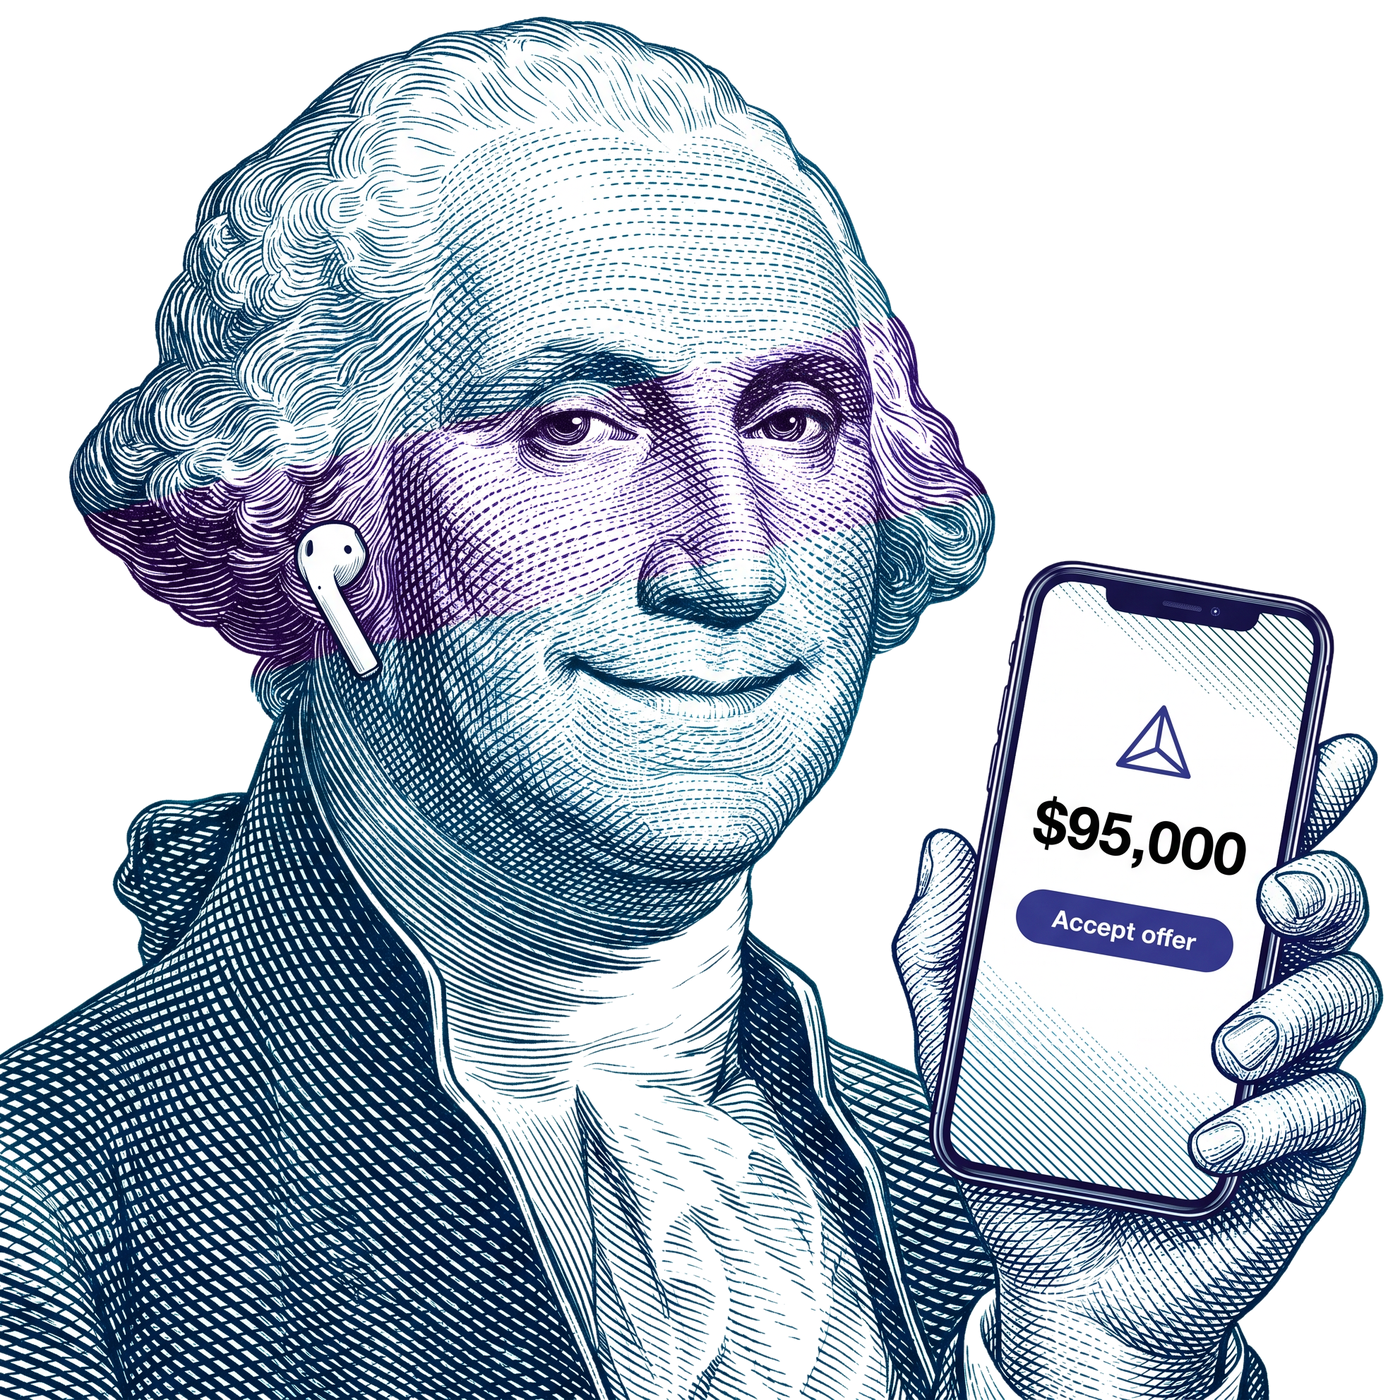
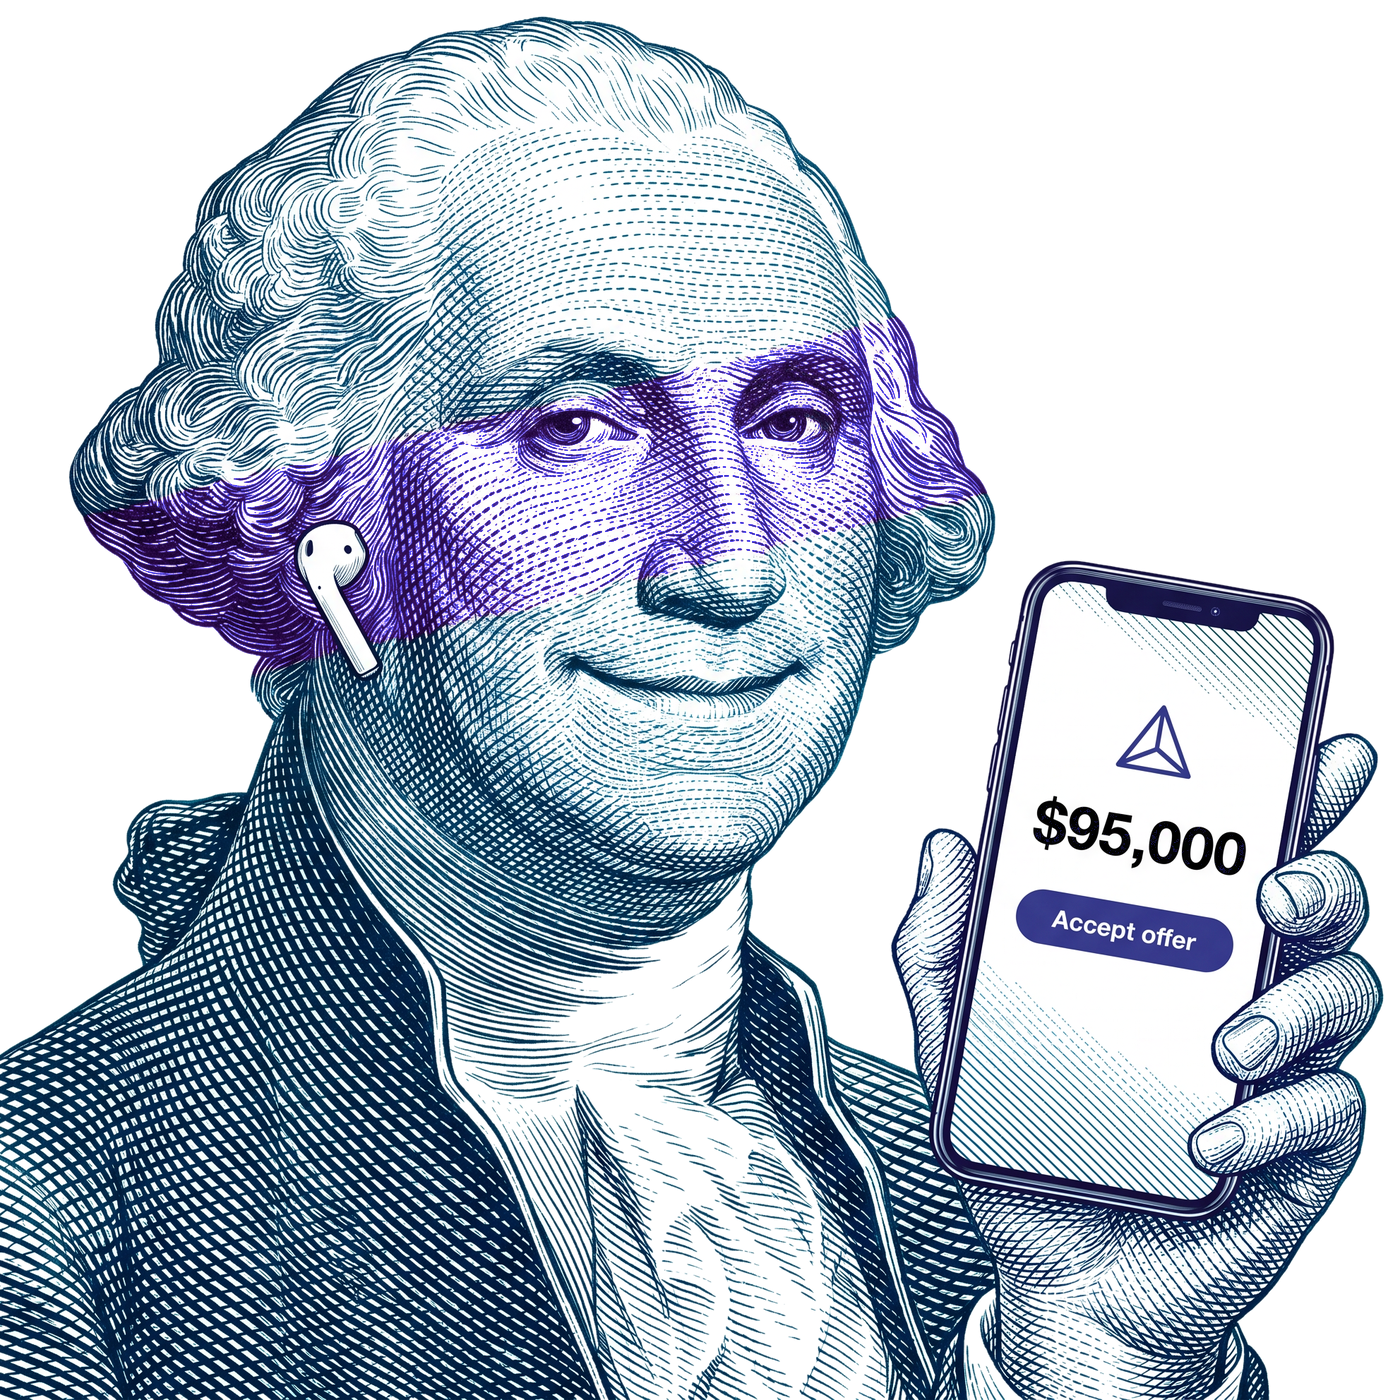
hero: electric-indigo stripe, uncrop shoulder, denser lines w/ cursor spotlight
Requested by David:

1. Recolor the stripe to true #4945FF electric indigo. First pass hue-shifted
   pixels in HSV but preserved value/saturation, so the stripe came out as
   dark purple. New pass replaces stripe RGB with #4945FF scaled by original
   luminance \u2014 dark ink stays dark, mid-tones land right at #4945FF, and
   engraving cross-hatch texture is preserved. Reads vibrant, matches the
   phone's Accept-offer button.

2. Uncrop the left shoulder: portrait now sits with bottom:120px and
   height:calc(100% - 140px), max-height 720px, so the sub-stats strip no
   longer clips the coat/shoulder. Mobile bottom offsets adjusted to match.

3. Denser background lines: 42 \u2192 96 parallel arcs, thinner stroke, softer
   base opacity so the pattern reads as topography instead of a few sweeps.

4. Plaid-style cursor spotlight on the lines: two layered SVGs \u2014 a dim base
   always visible, and a bright overlay revealed only by a radial-gradient
   mask (circle 320px) centered on the cursor. Mask center is driven by
   CSS --mx/--my custom properties on the <section>, updated via a
   mousemove handler with 15% lerp inside requestAnimationFrame so the
   light glides smoothly to the cursor (idle at 50%/40%).

Changed region(s): [[0.0614, 0.215, 0.7064, 0.4914]]

diff --git a/app/variation-1.jsx b/app/variation-1.jsx
@@ -187,6 +187,41 @@ function V1Hero({ accent, onApply }) {
   const mounted = useV1Mounted(80);
   // Subscribe to language changes so the hero copy swaps on toggle.
   useLang();
+
+  // Cursor-tracked spotlight on the background lines (Plaid-style).
+  // The section receives CSS custom properties --mx / --my in percent, and
+  // the overlay <svg> uses them to position a radial-gradient mask. Update
+  // via requestAnimationFrame + a 15% lerp so the light glides smoothly.
+  const heroRef = React.useRef(null);
+  React.useEffect(() => {
+    const el = heroRef.current;
+    if (!el) return undefined;
+    const target = { x: 50, y: 40 };   // % — idle position (soft glow left-center)
+    const cur    = { x: 50, y: 40 };
+    let raf = 0;
+    const onMove = (e) => {
+      const r = el.getBoundingClientRect();
+      target.x = ((e.clientX - r.left) / r.width) * 100;
+      target.y = ((e.clientY - r.top) / r.height) * 100;
+    };
+    const onLeave = () => { target.x = 50; target.y = 40; };
+    const tick = () => {
+      cur.x += (target.x - cur.x) * 0.15;
+      cur.y += (target.y - cur.y) * 0.15;
+      el.style.setProperty('--mx', cur.x.toFixed(2) + '%');
+      el.style.setProperty('--my', cur.y.toFixed(2) + '%');
+      raf = requestAnimationFrame(tick);
+    };
+    el.addEventListener('mousemove', onMove);
+    el.addEventListener('mouseleave', onLeave);
+    raf = requestAnimationFrame(tick);
+    return () => {
+      cancelAnimationFrame(raf);
+      el.removeEventListener('mousemove', onMove);
+      el.removeEventListener('mouseleave', onLeave);
+    };
+  }, []);
+
   // Hero portrait is static — no parallax / scroll animation, per stakeholder.
   const enter = (base) => ({
     opacity: mounted ? 1 : 0,
@@ -205,7 +240,7 @@ function V1Hero({ accent, onApply }) {
   // as the page scrolls.
 
   return (
-    <section style={{
+    <section ref={heroRef} style={{
       // Delt indigo gradient: violet/cyan glows over a deep navy → indigo
       // base. Washington cutout floats on the right; elegant swept curves
       // fill the left half. No more baked-in ripple pattern.
@@ -231,21 +266,47 @@ function V1Hero({ accent, onApply }) {
       `}</style>
 
       {/* Elegant sweeping curves — same family as the footer's topography lines.
-          Delicate cyan Bezier arcs fanning from the upper-left corner across
-          the copy area. Sits behind everything (zIndex 1); Washington cutout
-          is above at zIndex 2. */}
-      <svg aria-hidden viewBox="0 0 1200 1000" preserveAspectRatio="none"
-        style={{
-          position: 'absolute', left: -80, top: -80, width: 1300, height: 1080,
-          opacity: 0.85, pointerEvents: 'none', zIndex: 1,
-          mixBlendMode: 'screen',
-        }}>
-        {Array.from({ length: 42 }, (_, i) => (
-          <path key={i}
-            d={`M ${-40 + i * 6} 0 Q ${260 + i * 12} ${180 + i * 8}, ${180 + i * 10} ${520 - i * 4} T ${-20 + i * 4} 1000`}
-            fill="none" stroke="rgba(125,211,252,0.55)" strokeWidth="0.55" />
-        ))}
-      </svg>
+          Two layered SVGs so the pattern can "light up" under the cursor,
+          Plaid-style: a dim base drawn at full coverage, then a bright copy
+          on top revealed only by a radial mask that follows the mouse.
+          The mask center is driven by --mx / --my custom properties set
+          on the enclosing <section> (updated on mousemove, see effect above).
+          Line count bumped 42 → 96 for a denser topography. */}
+      {(() => {
+        const LINE_COUNT = 96;
+        const buildPath = (i) => `M ${-40 + i * 3} 0 Q ${260 + i * 6} ${180 + i * 4}, ${180 + i * 5} ${520 - i * 2} T ${-20 + i * 2} 1000`;
+        const lines = Array.from({ length: LINE_COUNT }, (_, i) => buildPath(i));
+        return (
+          <React.Fragment>
+            {/* Dim base — always visible, sets the ambient topography. */}
+            <svg aria-hidden viewBox="0 0 1200 1000" preserveAspectRatio="none"
+              style={{
+                position: 'absolute', left: -80, top: -80, width: 1300, height: 1080,
+                opacity: 0.5, pointerEvents: 'none', zIndex: 1,
+                mixBlendMode: 'screen',
+              }}>
+              {lines.map((d, i) => (
+                <path key={i} d={d} fill="none" stroke="rgba(125,211,252,0.35)" strokeWidth="0.5" />
+              ))}
+            </svg>
+            {/* Bright overlay — same paths, higher contrast, revealed only
+                inside the radial-gradient mask centered on the cursor.
+                --mx / --my come from the <section>'s style properties. */}
+            <svg aria-hidden viewBox="0 0 1200 1000" preserveAspectRatio="none"
+              style={{
+                position: 'absolute', left: -80, top: -80, width: 1300, height: 1080,
+                opacity: 1, pointerEvents: 'none', zIndex: 1,
+                mixBlendMode: 'screen',
+                WebkitMaskImage: 'radial-gradient(circle 320px at var(--mx, 50%) var(--my, 40%), rgba(0,0,0,0.95) 0%, rgba(0,0,0,0.55) 45%, rgba(0,0,0,0) 100%)',
+                maskImage: 'radial-gradient(circle 320px at var(--mx, 50%) var(--my, 40%), rgba(0,0,0,0.95) 0%, rgba(0,0,0,0.55) 45%, rgba(0,0,0,0) 100%)',
+              }}>
+              {lines.map((d, i) => (
+                <path key={i} d={d} fill="none" stroke="rgba(180,220,255,0.95)" strokeWidth="0.8" />
+              ))}
+            </svg>
+          </React.Fragment>
+        );
+      })()}
 
       {/* Washington cutout — transparent PNG, absolutely positioned on the right.
           Anchored to the section's right edge (right:0) with a small inner
@@ -255,13 +316,17 @@ function V1Hero({ accent, onApply }) {
           No parallax / scroll transform — the portrait sits static, per
           stakeholder direction. */}
       <style>{`
-        .v1hero-washington { position: absolute; right: 0; bottom: 0; height: 96%; max-height: 820px; width: auto; z-index: 2; pointer-events: none;
+        /* Raise the portrait ~120px above the section floor so the sub-stats
+           strip doesn't clip Washington's left shoulder / coat. Height is
+           capped so the full silhouette — shoulder-to-crown — fits between
+           the top nav and the sub-stats border. */
+        .v1hero-washington { position: absolute; right: 0; bottom: 120px; height: calc(100% - 140px); max-height: 720px; width: auto; z-index: 2; pointer-events: none;
           filter: drop-shadow(0 20px 60px rgba(4,15,40,0.55)); transform-origin: right bottom; }
         @media (max-width: 900px) {
-          .v1hero-washington { right: -25%; height: 70%; max-height: 520px; opacity: 0.35; }
+          .v1hero-washington { right: -25%; bottom: 80px; height: 62%; max-height: 480px; opacity: 0.35; }
         }
         @media (max-width: 560px) {
-          .v1hero-washington { right: -40%; height: 60%; opacity: 0.22; }
+          .v1hero-washington { right: -40%; bottom: 60px; height: 54%; opacity: 0.22; }
         }
       `}</style>
       <img
